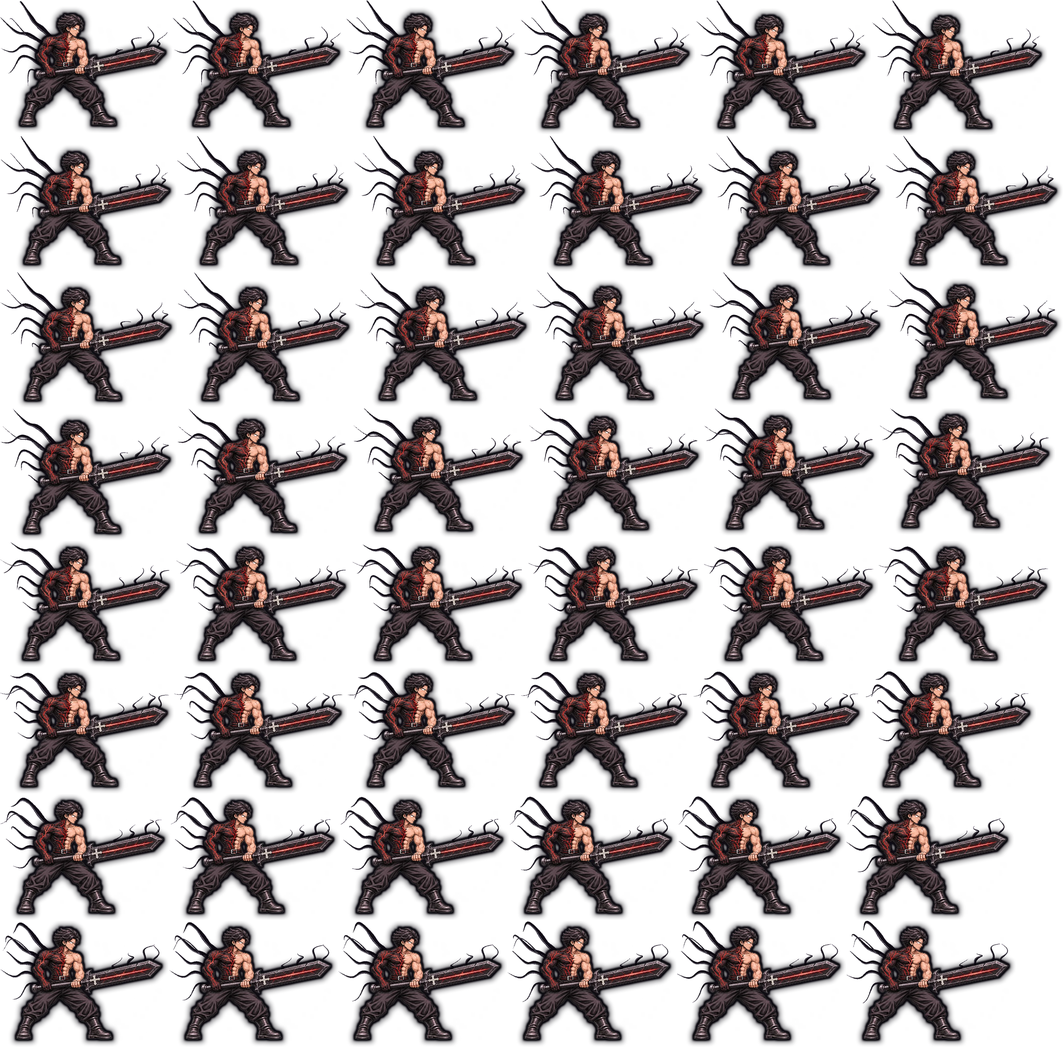
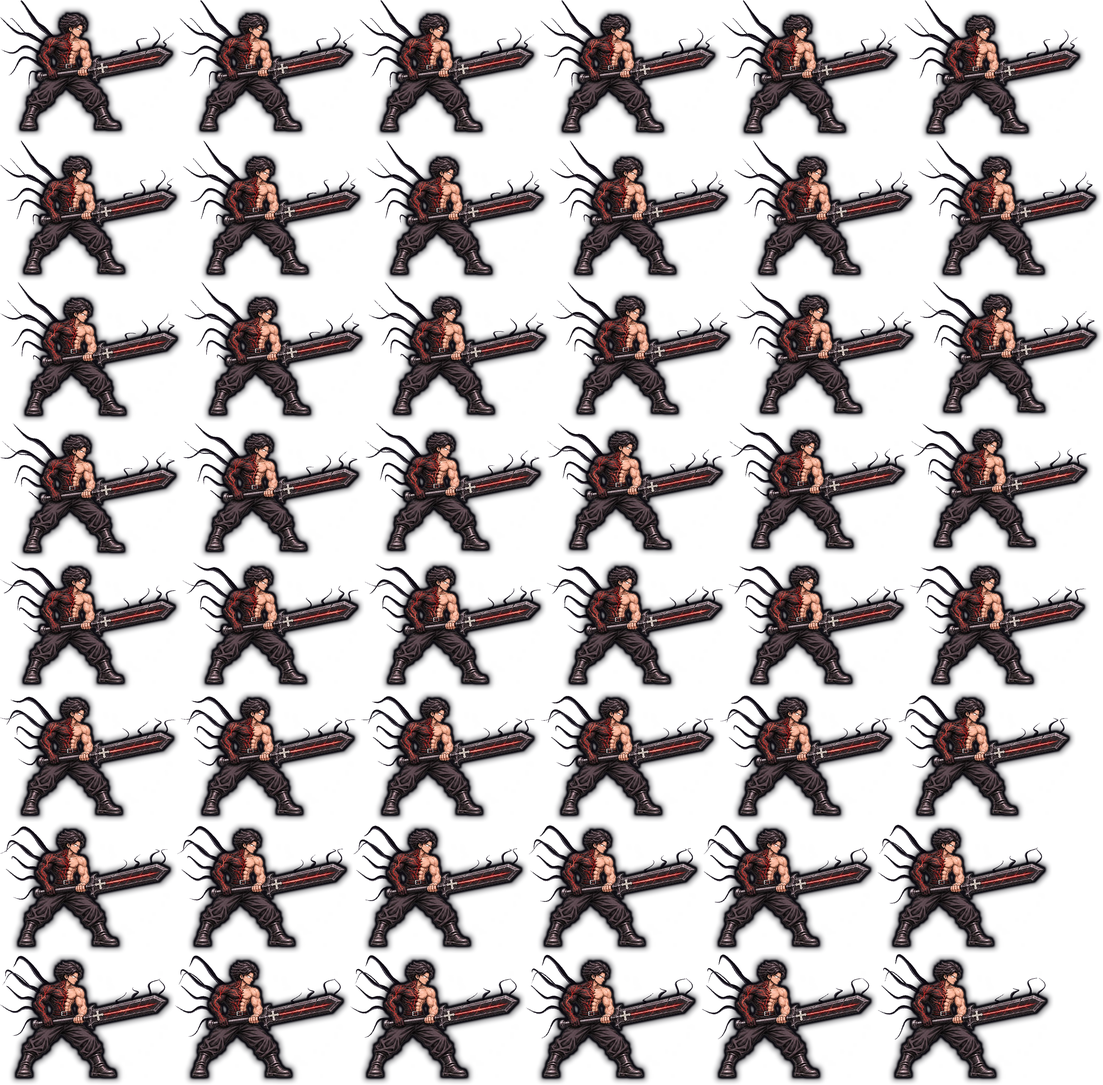
0.263.0: Demon Knight fixes: the Knight's size everywhere, his box, the Sanctum's rows
His model's displayScale is the Knight's (1.15) in both sets: it held the
packing scale, which drew him smaller, and a quarter smaller again on
Medium graphics; the separate 9% in battle is gone. A contained figure in
the Store and Collection stands at full height and may run a little past
each side; a wide still picture likewise. The Sanctum's figure column has
one width, so a wide figure no longer moves the class buttons to other
rows. His full set is packed at the art's own pixels (decision 773). No
rules change.

diff --git a/apps/web/src/art/HeroModel.tsx b/apps/web/src/art/HeroModel.tsx
@@ -19,6 +19,9 @@ const still = (): boolean =>
 // (DECISIONS #755) A pose-sheet model holds its whole atlas, about 100 MB decoded: a page showing every Riftwalker (the Models page,
 // the lore page) animates at most this many at once, the ones nearest the screen; the rest show their picture until one is let go.
 const SHEET_SLOTS = 3;
+/** How far past each side of its box a contained figure may run, as a share of the box's width (DECISIONS #773): fitted to the width
+ * alone, a figure holding a great sword out came out tiny in a narrow box. */
+const CONTAIN_SPILL = 0.18;
 let sheetsLive = 0;
 const slotWaiters = new Set<() => void>();
 function freeSheetSlot(): void {
@@ -34,8 +37,9 @@ export function HeroModel(props: {
   className?: string;
   /** how much of the box's height the body fills, feet on its bottom edge */
   fill?: number;
-  /** the whole resting figure, weapon and all, stays inside the box and stands in its middle (the Store's and the Collection's boxes);
-   * without it the feet stand in the middle and a wide pose may reach past the sides (DECISIONS #772) */
+  /** the whole resting figure, weapon and all, stands in the middle of the box (the Store's and the Collection's boxes), at its full
+   * height: a wide pose may run past each side by up to CONTAIN_SPILL of the box's width (the tip of a sword, not the body), and is
+   * made smaller only past that. Without it the feet stand in the middle (DECISIONS #772, #773) */
   contain?: boolean;
   /** the still picture */
   children: ReactNode;
@@ -118,8 +122,9 @@ export function HeroModel(props: {
       let shift = 0;
       if (contain && sprite.restSpan && size.w > 0) {
         let span = sprite.restSpan(height);
-        if (span.left + span.right > size.w) {
-          height = Math.max(8, (height * size.w) / (span.left + span.right));
+        const room = size.w * (1 + 2 * CONTAIN_SPILL);
+        if (span.left + span.right > room) {
+          height = Math.max(8, (height * room) / (span.left + span.right));
           span = sprite.restSpan(height);
         }
         shift = (span.left - span.right) / 2;

diff --git a/apps/web/src/app/patchNotes.ts b/apps/web/src/app/patchNotes.ts
@@ -46,6 +46,32 @@ export const KIND_LABEL: Record<NoteKind, string> = {
 
 export const PATCH_NOTES: PatchNote[] = [
   {
+    version: "0.263.0",
+    date: "2026-11-12",
+    title: "Demon Knight fixes",
+    summary: "The Demon Knight is the Knight’s size everywhere, fills his box, and the Sanctum keeps its rows.",
+    notes: [
+      {
+        kind: "fixed",
+        title: "His size",
+        hero: "knight",
+        text: "The Demon Knight is the same size as the Knight everywhere. He was drawn smaller, and smaller again on Medium graphics."
+      },
+      {
+        kind: "fixed",
+        text: "In the Store and the Collection he stands at his full height in his box; only the tip of his sword runs past the edge."
+      },
+      {
+        kind: "fixed",
+        text: "In the Sanctum, choosing the Knight while he wears the Demon Knight no longer moves the class buttons onto other rows."
+      },
+      {
+        kind: "changed",
+        text: "The Demon Knight is a little sharper in battle."
+      }
+    ]
+  },
+  {
     version: "0.262.0",
     date: "2026-11-12",
     title: "Demon Knight",

diff --git a/apps/web/src/app/ShopParts.tsx b/apps/web/src/app/ShopParts.tsx
@@ -243,6 +243,21 @@ export function SoonPanel(props: { tab: ShopTab; text?: string }) {
 
 function LookPicture(props: { src: string }) {
   const [failed, setFailed] = useState<string | null>(null);
+  const [wide, setWide] = useState<string | null>(null);
   if (!props.src || failed === props.src) return null;
-  return <img src={props.src} alt="" loading="lazy" onError={() => setFailed(props.src)} />;
+  // (a picture wider than it is tall, a figure with its weapon held out: it stands at the box's height and runs past the sides, as its
+  // animated model does, not shrunk to the box's width: DECISIONS #773)
+  return (
+    <img
+      src={props.src}
+      alt=""
+      loading="lazy"
+      className={wide === props.src ? 'is-wide' : undefined}
+      onLoad={(e) => {
+        const img = e.currentTarget;
+        if (img.naturalWidth > img.naturalHeight * 1.05) setWide(props.src);
+      }}
+      onError={() => setFailed(props.src)}
+    />
+  );
 }

diff --git a/apps/web/src/run/run.css b/apps/web/src/run/run.css
@@ -1804,11 +1804,17 @@ button.mapnode--warden {
   flex: 1 1 54rem;
   max-width: 56rem;
 }
+/* (one width whoever stands in it, DECISIONS #773: the column took the picture's own width, so a wide figure, the Demon Knight with
+   his sword out, pushed the class buttons onto other rows; a wider picture now runs past the column's sides) */
 .picker__figure {
   flex: none;
   margin: 0;
   display: grid;
   place-items: end center;
+  width: calc(min(24rem, 50vh) * 0.95);
+}
+.picker__figure .hero-model {
+  justify-self: center;
 }
 .picker__figure img {
   height: min(24rem, 50vh);
@@ -1819,6 +1825,10 @@ button.mapnode--warden {
 @media (max-width: 70rem) {
   .picker__stage {
     flex-direction: column;
+  }
+  .picker__figure {
+    width: auto;
+    max-width: 100%;
   }
   .picker__figure img {
     height: 14rem;

diff --git a/apps/web/src/fight/FightView.tsx b/apps/web/src/fight/FightView.tsx
@@ -320,7 +320,8 @@ function specsFrom(
         hero ? heroFigure(u.def, skin) : unitFigure(u.def, u.maxHp),
       );
       const canvas = flip && u.kind !== 'enemy' ? mirror(raw) : raw;
-      const k = figureScale(mode, hero) * (skin === DEMON_KNIGHT_SKIN ? 1.09 : 1);
+      // (the Demon Knight's size is his model's own displayScale, the Knight's: no factor here, DECISIONS #773)
+      const k = figureScale(mode, hero);
       const height =
         fitHeight(
           canvas,

diff --git a/apps/web/src/app/store.css b/apps/web/src/app/store.css
@@ -188,6 +188,12 @@
   object-position: bottom;
   filter: drop-shadow(0 6px 10px rgb(0 0 0 / 0.55));
 }
+/* a picture wider than tall (a weapon held out): as tall as the box, running past its sides, which the stage cuts off */
+.look__stage img.is-wide {
+  width: 136%;
+  max-width: none;
+  margin-inline: -18%;
+}
 .look__tag {
   position: absolute;
   top: 0.45rem;

diff --git a/docs/DECISIONS.md b/docs/DECISIONS.md
@@ -2294,3 +2294,12 @@ Robert, after #753 (decks now live long enough for an update to break one): "we 
   - **Whole in his box:** `HeroModel` takes `contain`: the whole resting figure, weapon and all, stands in the middle of the box and is made smaller only if it is wider than the box (`restSpan`). The Store's and the Collection's look boxes use it. Elsewhere the feet still stand in the middle, as the home screen's dais needs.
   - **The jitter:** the packer cut each resting frame to its own outline and then scaled the piece, so as the red energy moved the outline the body landed on a different part of a pixel each frame (measured: the boots' edge moved by a pixel between frames, in both sets). It now scales every frame whole from the same canvas and cuts afterwards (measured: no movement). Both sets were repacked (assets-src/heroes-pose-sheets/knight-demon-knight/pack_demon_knight.py, which also writes `fitWidth`).
 - **Not seen on screen:** the test browser would not start in this session, so the size, the box and the jitter were checked by measurement and tests only. In a narrow box (a phone's Store) the whole figure with its sword is wider than the box and is made smaller to fit.
+
+## 773 - The Demon Knight again: the Knight's size in every set, his box, the Sanctum's rows, his sharpness (2026-11-12)
+
+- **Question:** Robert, on 0.262.0: "hes still tiny in the skin box"; "the sanctum has a mis-alignment problem when you click on the knight class and other classes, the icons go to different rows"; "in the battlefield is he not hd like the resT?", "he looks good on the homescreen but blurry on the battle field".
+- **His size, found wrong in #772's own fix:** a manifest's `displayScale` is how large the game draws a model (the Knight's is 1.15, every other Riftwalker's 1). His packer wrote its packing scale there: 0.96, and 0.72 in the lighter set. So he was drawn smaller than the Knight everywhere, and a quarter smaller again on Medium graphics (phones start on it). Both sets now say 1.15, the Knight's, and the separate 9% in battle is gone (FightView): a look is the size of the Riftwalker who wears it.
+- **The skin box:** fitting the whole figure to the box's width (#772) made a figure with a great sword held out tiny in a narrow box. A contained figure now stands at its full height in the middle of the box and may run past each side by up to 18% of the box's width (`CONTAIN_SPILL`): the tip of the sword, not the body. Its still picture does the same (`img.is-wide`: a picture wider than tall is as tall as the box).
+- **The Sanctum:** the figure's column took the picture's own width, so a wide figure pushed the class buttons onto other rows. The column now has one width whoever stands in it (0.95 of the picture's height) and a wider picture runs past its sides.
+- **His sharpness:** his source sheets are 1536 x 1024 with four poses each, about 480 px a pose; the Knight's own are 3264 x 1440. The packer scaled each pose twice (0.94, then 0.96), which softened it further: the full set is now packed at the art's own pixels (one scaling). That is all that packing can give. To be as sharp as the others at battle size his poses need to be made again at about twice the size.
+- **Not seen on screen** (as #772): checked by measurement and tests.

diff --git a/CLAUDE.md b/CLAUDE.md
@@ -1,3 +1,7 @@
+# Release approved 0.263.0 / rules 110 (2026-11-12; decision 773)
+
+Robert asked for these fixes to the look he told me to ship ("hes still tiny in the skin box", the Sanctum's rows, "blurry on the battle field"), under the same go-ahead as 0.262.0. Website/server and matching Windows updater. Future changes need fresh release approval. A manifest's `displayScale` is how large the game draws a model, never the packing scale: the Demon Knight's two sets say 1.15 like the Knight (they said 0.96 and 0.72, so Medium graphics drew him a quarter smaller); no separate factor in FightView. `HeroModel` `contain` keeps a figure at full height and lets it run past each side by `CONTAIN_SPILL`; a wide still picture likewise (`img.is-wide`). The Sanctum's figure column has one width. His full set is packed at the art's own pixels; his source poses are about 480 px tall against the Knight's far larger sheets, so he is softer in battle until they are made again larger. Asked for next, not built: the opponent's look shown in the Arena, ghosts included (nothing about looks is in the Arena protocol yet). No rules change.
+
 # Release approved 0.262.0 / rules 110 (2026-11-12; decision 772)
 
 Robert explicitly approves shipping ("i have an updated demon knight to deploy. can you make sure he looks bigger and fits the areas better like the skin box and everything, then ship it"). Website/server and matching Windows updater. Future changes need fresh release approval. The Demon Knight at his full size: a model's manifest may give `fitWidth` (the standing body's width) so a weapon held out to the side does not shrink the body; `HeroModel` `contain` stands the whole resting figure in the middle of the Store's and the Collection's boxes (`restSpan`); his packer scales each frame whole before cutting it, which ended a one-pixel jitter while he stands; red energy in his veins and along the sword, and 9% larger in battle (`DEMON_KNIGHT_SKIN` in FightView). Not seen on screen in the session that shipped it. No rules change.

diff --git a/CHANGELOG.md b/CHANGELOG.md
@@ -1,3 +1,10 @@
+## 0.263.0 - 2026-11-12
+
+- The Demon Knight is the same size as the Knight everywhere. He was drawn smaller, and smaller again on Medium graphics.
+- In the Store and the Collection he stands at his full height in his box; only the tip of his sword runs past the edge.
+- Fixed: in the Sanctum, choosing the Knight while he wears the Demon Knight moved the class buttons onto other rows.
+- The Demon Knight is a little sharper in battle (his pictures are no longer scaled twice).
+
 ## 0.262.0 - 2026-11-12
 
 - The Demon Knight stands at his full size: he was drawn about a fifth too small, because the great sword held out to his side was counted as part of his body. He is now fitted by his body, and stands a little taller than the other Riftwalkers. Red energy runs through his veins and along his greatsword.
